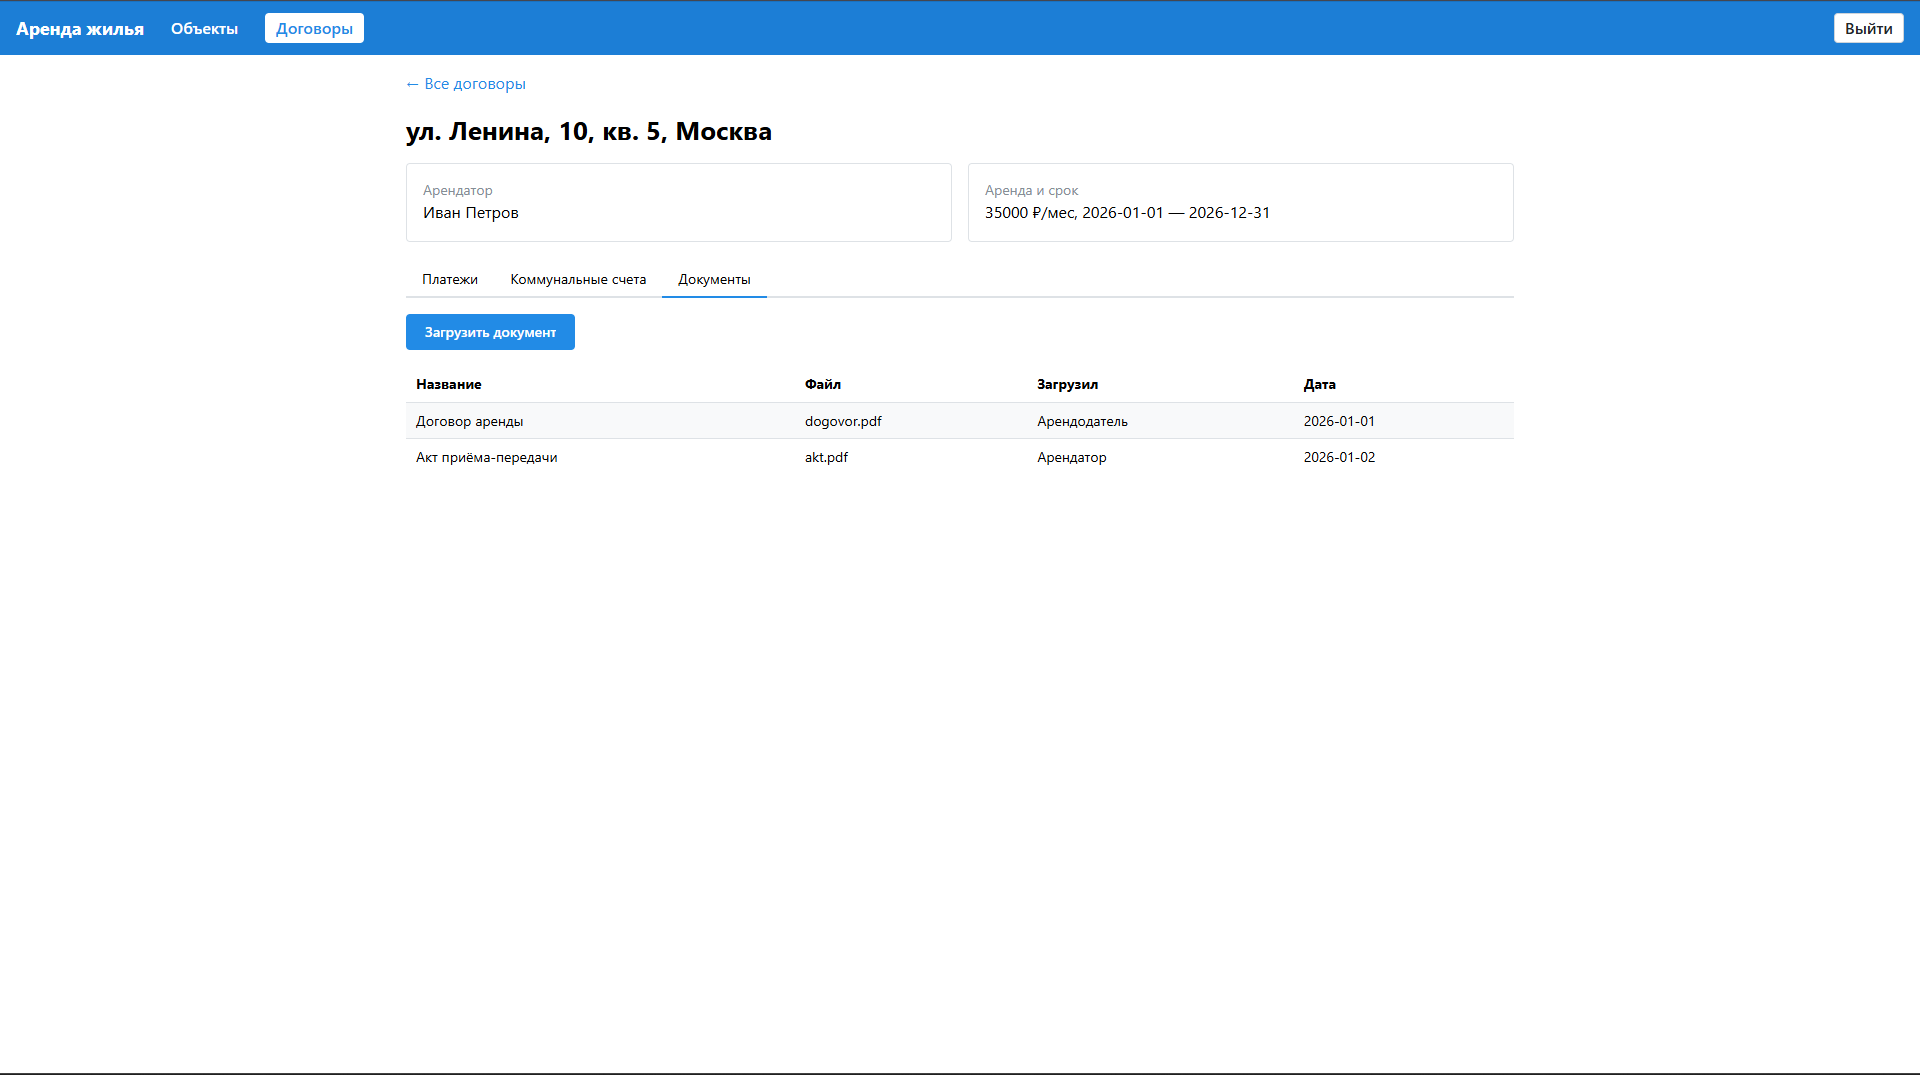
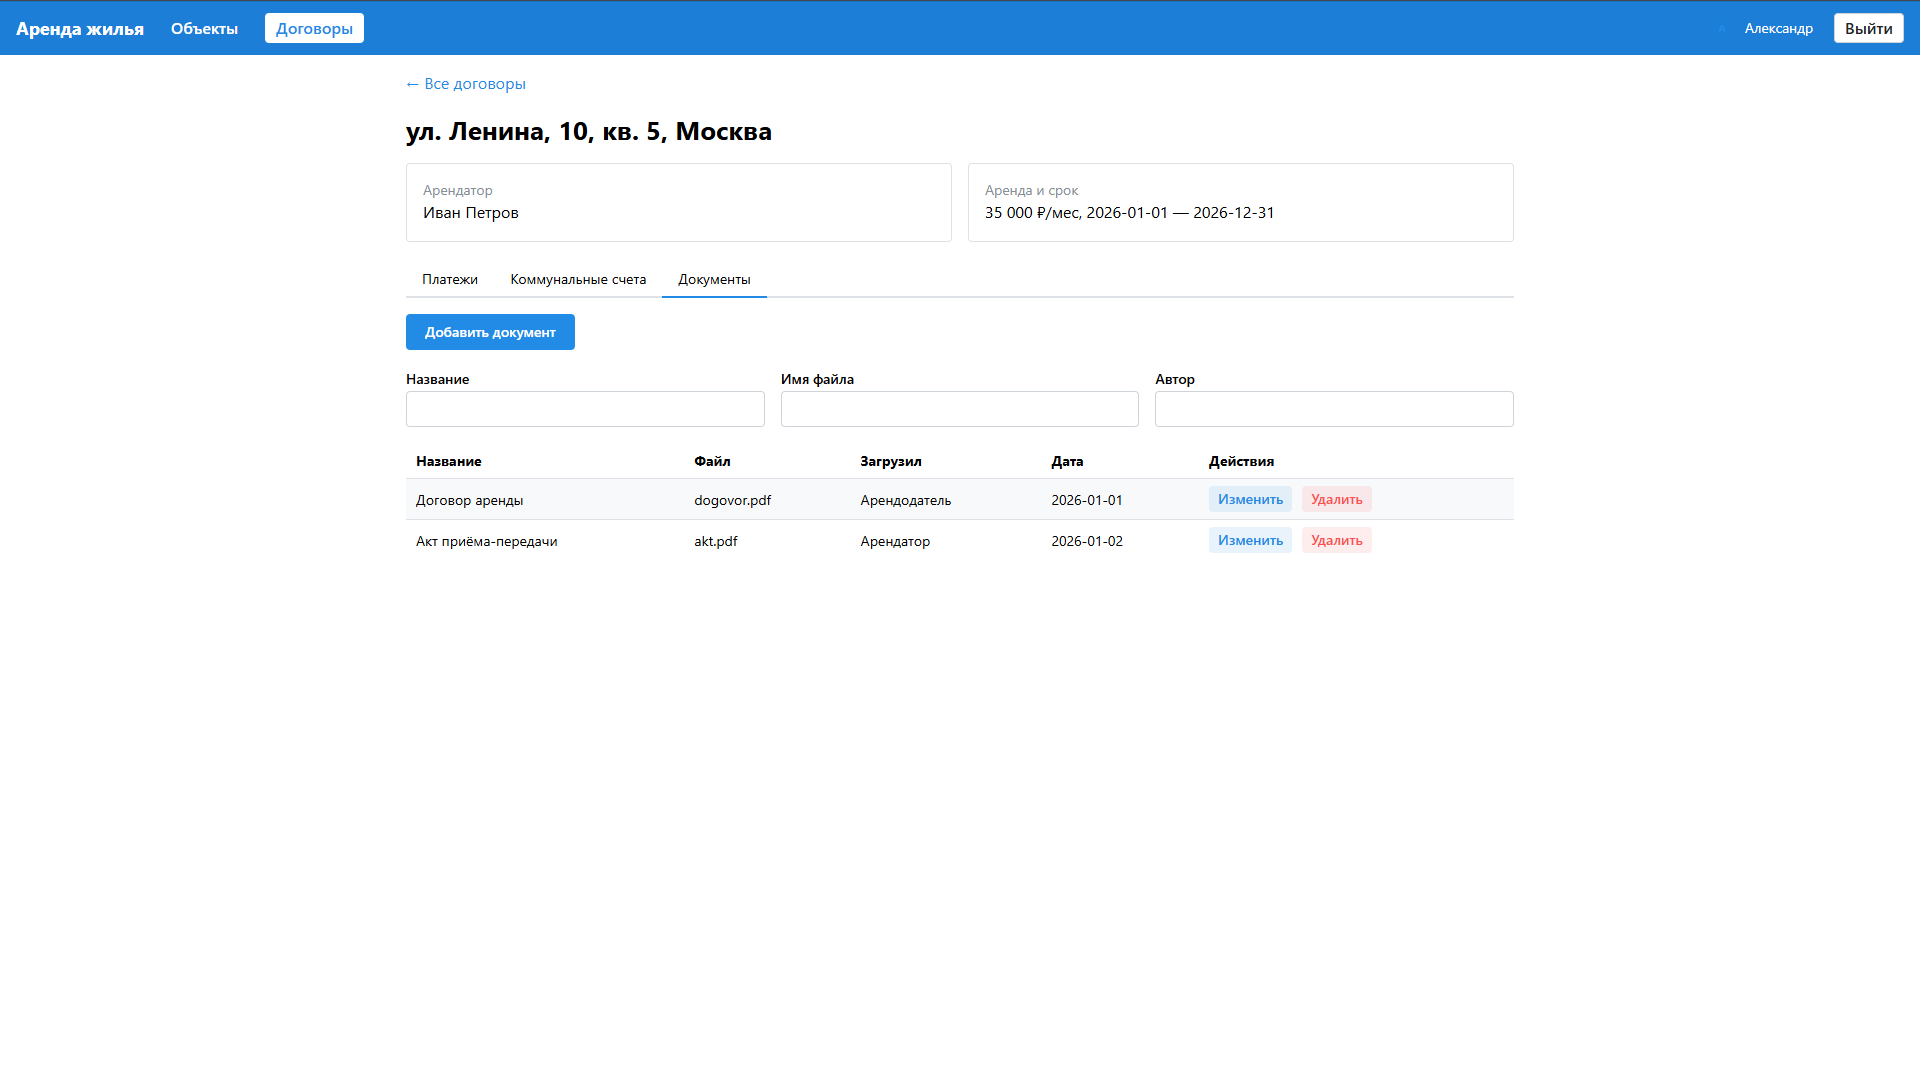
Договоры: добавлено редактирование и удаление записей

diff --git a/README.md b/README.md
@@ -1,109 +1,92 @@
 # Аренда жилья
 
-Учебный проект: объекты недвижимости, договоры аренды, платежи, коммунальные счета и обмен документами между арендатором и арендодателем.
+Учебное full-stack приложение для управления объектами недвижимости, договорами аренды, платежами, коммунальными счетами и документами.
 
-## Назначение и сценарии
+## Сценарии и экраны
 
-- **Арендодатель** добавляет объекты, заключает договоры, ведёт платежи и коммунальные счета, обменивается документами с арендатором.
-- **Арендатор** смотрит свои договоры, вносит платежи, видит коммунальные счета, загружает и скачивает документы.
+- Арендодатель просматривает объекты, создаёт объекты и договоры.
+- Пользователь просматривает договор и связанные с ним платежи, счета и документы.
+- В списках есть поиск и фильтры; в шапке находится переход в личный кабинет.
+- На этапе лабораторной №3 frontend использует демонстрационные данные. Созданные через формы записи хранятся в состоянии страницы и пропадают после перезагрузки. Вход пока демонстрационный.
 
-## Экраны
-
-1. **Вход и регистрация** (`/login`)
-2. **Объекты** (`/`) — список объектов недвижимости
-3. **Договоры** (`/leases`) — список договоров аренды
-4. **Договор** (`/leases/:id`) — сведения о договоре и вкладки «Платежи», «Коммунальные счета», «Документы»
+Экраны: `/login`, `/` (объекты), `/leases`, `/leases/:id` и `/account` (личный кабинет).
 
 ## Стек
 
-Python + FastAPI, PostgreSQL + SQLAlchemy, React + TypeScript (Vite), библиотека UI-компонентов Mantine, Docker, Git.
+Backend: Python, FastAPI, SQLAlchemy, PostgreSQL. Frontend: React, TypeScript, Vite, Mantine, React Router. Локальная база и backend запускаются через Docker Compose.
 
-## Структура backend (`backend/app`)
+## Структура
 
-| Файл          | Назначение                                                       |
-| ------------- | ---------------------------------------------------------------- |
-| `routers/`    | маршруты API: объекты, договоры, платежи, счета, документы       |
-| `models.py`   | модели SQLAlchemy (таблицы БД)                                   |
-| `schemas.py`  | схемы валидации запросов и ответов (Pydantic)                    |
-| `database.py` | подключение к БД и сессии                                        |
-| `crud.py`     | операции с данными и бизнес-логика (поиск, проверки, сохранение) |
-| `config.py`   | настройки приложения из переменных окружения                     |
-
-## Модель данных
-
-- `properties` — объекты недвижимости (адрес, город, площадь, комнаты, описание)
-- `leases` — договоры; внешний ключ `property_id` → `properties`; арендатор (имя, email), сумма аренды, даты начала и окончания
-- `payments` — платежи; внешний ключ `lease_id` → `leases`
-- `bills` — коммунальные счета; внешний ключ `lease_id` → `leases`
-- `documents` — документы (файлы хранятся на диске в `uploads/`); внешний ключ `lease_id` → `leases`
-
-Связи: у одного объекта может быть много договоров, у одного договора — много платежей, счетов и документов. Удаление объекта удаляет его договоры, удаление договора — его платежи, счета и документы.
-
-## API
-
-Интерактивная документация (Swagger): http://localhost:8000/docs
-
-| Метод и путь                                                                                | Действие           |
-| ------------------------------------------------------------------------------------------- | ------------------ |
-| `GET/POST /properties`, `GET/PUT/DELETE /properties/{id}`                                   | объекты            |
-| `GET/POST /leases`, `GET/PUT/DELETE /leases/{id}`                                           | договоры           |
-| `GET/POST /leases/{id}/payments`, `PUT/DELETE /payments/{id}`                               | платежи            |
-| `GET/POST /leases/{id}/bills`, `PUT/DELETE /bills/{id}`                                     | коммунальные счета |
-| `GET/POST /leases/{id}/documents`, `GET /documents/{id}/download`, `DELETE /documents/{id}` | документы          |
-
-Ошибки: `404` — запись не найдена, `400` — нарушены правила (например, дата окончания раньше начала), `422` — некорректные данные.
-
-## Структура frontend (`frontend/src`)
-
-- `pages/` — страницы (по одной на экран)
-- `components/` — общие компоненты (шапка с меню)
-- `data/demo.ts` — демонстрационные данные (на этом этапе API ещё нет)
-
-## Запуск backend и БД
-
-### Через Docker
-
-Нужен установленный Docker Desktop.
-
+```text
+backend/app/
+  main.py, config.py, database.py, crud.py
+  models/       модели SQLAlchemy по сущностям
+  schemas/      Pydantic-схемы по сущностям
+  routers/      HTTP-маршруты API
+frontend/src/
+  components/   общие компоненты, состояния списка
+  pages/        экраны приложения
+  data/demo.ts  типы и демонстрационные данные
 ```
-copy .env.example .env
-# откройте .env и впишите пароль для БД
+
+Модель данных: `Property` — `Lease` — `Payment`, `Bill`, `Document`. У одного объекта несколько договоров, у договора — несколько платежей, счетов и документов. Связи в БД заданы внешними ключами.
+
+## Единые настройки окружения
+
+Создайте **один** файл окружения в корне проекта:
+
+```powershell
+Copy-Item .env.example .env
+```
+
+Укажите собственный `POSTGRES_PASSWORD`. Файл `.env` игнорируется Git. Docker Compose и локальный backend используют этот корневой файл; отдельного `backend/.env` больше нет.
+
+## Запуск через Docker
+
+Нужен Docker Desktop. Из корня проекта выполните:
+
+```powershell
 docker compose up --build
 ```
 
-Поднимутся два контейнера: `db` (PostgreSQL) и `backend` (FastAPI). Таблицы создаются автоматически при старте backend. API: http://localhost:8000/docs
+Поднимутся PostgreSQL и FastAPI. Таблицы создаются при старте backend. Swagger: <http://localhost:8000/docs>.
 
-Полезные команды:
+Frontend запускается в отдельном терминале (frontend-сервиса в Compose нет):
 
-- `docker compose down` — остановить контейнеры (данные БД сохраняются)
-- `docker compose down -v` — остановить и удалить данные БД (чтобы создать таблицы заново)
-- `docker compose logs backend` — посмотреть логи backend
-
-### Без Docker
-
-Нужны Python 3.12+ и PostgreSQL с созданной базой `rental`.
-
-```
-cd backend
-python -m venv .venv
-.venv\Scripts\activate
-pip install -r requirements.txt
-copy .env.example .env
-uvicorn app.main:app --reload
-```
-
-## Запуск frontend
-
-Нужен Node.js 18+.
-
-```
+```powershell
 cd frontend
 npm install
 npm run dev
 ```
 
-Откройте http://localhost:5173
+Откройте адрес Vite, обычно <http://localhost:5173>.
 
-## Скриншоты
+Остановить контейнеры: `docker compose down`. Для удаления тома с данными базы: `docker compose down -v`.
 
-Лежат в `docs/screenshots/`.
+## Запуск без Docker
+
+Нужны Python 3.12+, Node.js 18+ и локальный PostgreSQL. Сначала создайте корневой `.env`, затем запустите backend:
+
+```powershell
+cd backend
+python -m venv .venv
+.\.venv\Scripts\Activate.ps1
+pip install -r requirements.txt
+uvicorn app.main:app --reload
+```
+
+В другом терминале из корня проекта запустите frontend командами `cd frontend`, `npm install`, `npm run dev`.
+
+## API
+
+Swagger: <http://localhost:8000/docs>.
+
+- `/properties` — CRUD объектов.
+- `/leases` — CRUD договоров.
+- `/leases/{id}/payments`, `/payments/{id}` — операции с платежами.
+- `/leases/{id}/bills`, `/bills/{id}` — операции со счетами.
+- `/leases/{id}/documents`, `/documents/{id}/download` — документы.
+
+Схемы проверяют поля запросов; сервер возвращает `404` для отсутствующей записи, `400` для недопустимого срока договора и `422` для ошибок валидации.
+
+Снимки экранов находятся в `docs/screenshots/`; после существенных изменений интерфейса их следует обновить перед сдачей.
